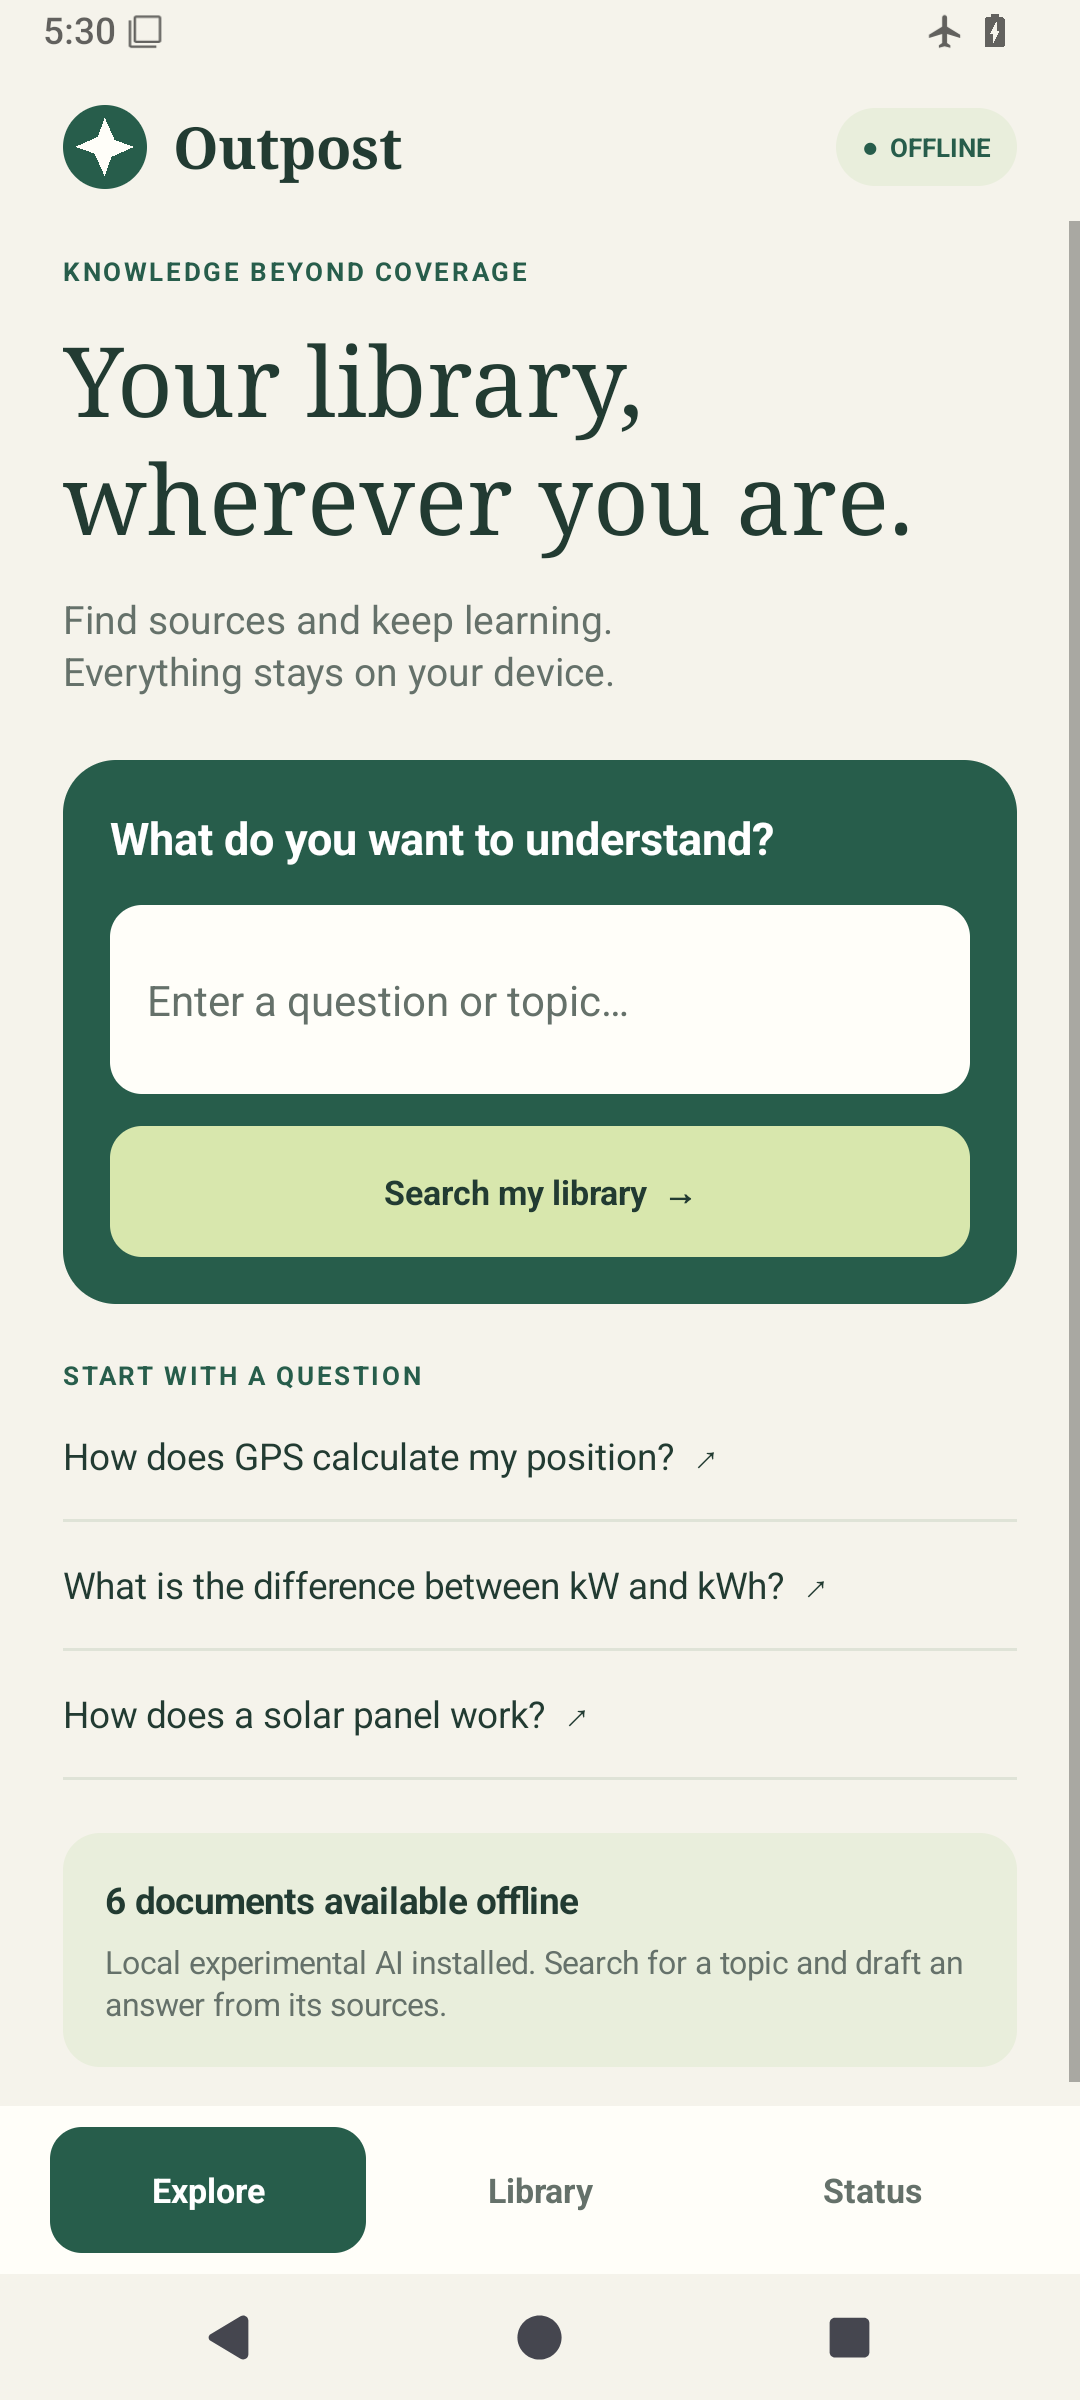
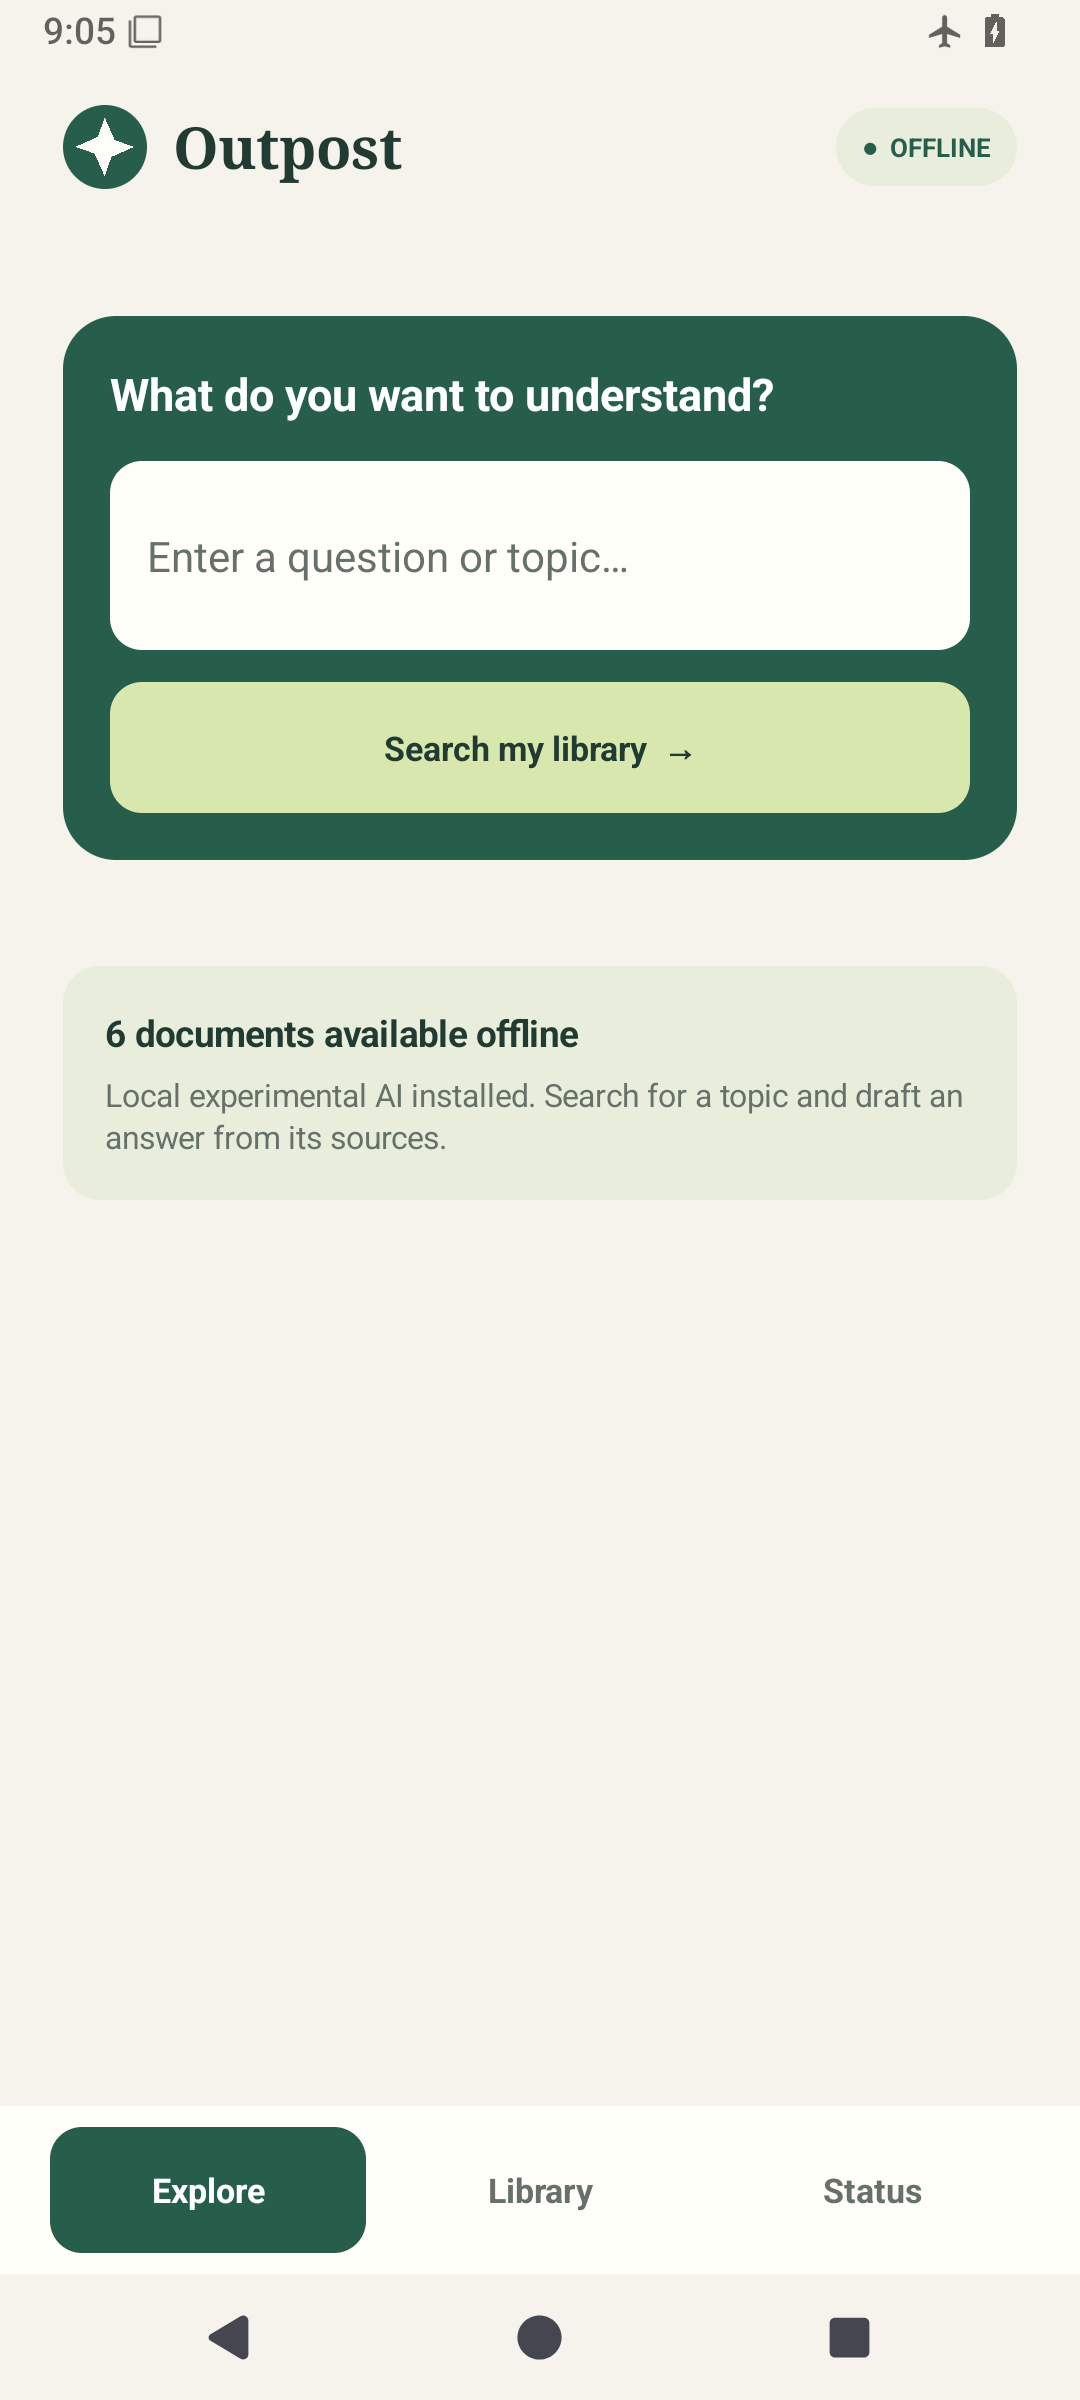
feat(ui): open directly on the question surface and drop the preset questions
The Explore tab opened on a landing block: the slogan, a hero headline, a
sub-headline, an empty results area carrying a "START WITH A QUESTION" label and
three tappable preset questions. The question input was therefore not the first
thing on screen, and a fixed set of example questions suggested the product was
limited to those topics. The app now opens directly on the question surface.

- Remove the slogan label, the hero block and the sub-headline.
- Remove the "START WITH A QUESTION" label and the three preset questions, so
  the input starts empty and nothing suggests a default question.
- Remove the now-dead example() and selectable() helpers and the seven string
  resources that only those views used. The slogan remains the documented
  product tagline in README.md and docs/.
- Refresh evidence/checks.json and the three UI screenshots for the new layout.

Verified on emulator-5582: build successful, lintDebug reports no issues, the
48 functional checks pass, and a cold launch (792 ms) shows an empty input with
the placeholder, no preset questions and the library note as the only content
below it.

diff --git a/app/src/main/java/dev/outpost/app/MainActivity.java b/app/src/main/java/dev/outpost/app/MainActivity.java
@@ -151,9 +151,7 @@ public final class MainActivity extends Activity {
         root.addView(nav);
     }
     private void explore() {
-        label(content, getString(R.string.ui_knowledge_beyond_coverage));
-        TextView hero = text(getString(R.string.ui_your_library_wherever_you_are), 37, INK); hero.setTypeface(Typeface.create("serif", Typeface.NORMAL)); hero.setLineSpacing(0, 1.03f); add(content, hero, 10, 0);
-        add(content, text(getString(R.string.ui_find_sources_and_keep_learning_everything_stays_on_your_device), 15, MUTED), 12, 0);
+        // Opens directly on the question surface: no landing block and no preset questions.
         LinearLayout searchCard = column(); searchCard.setPadding(dp(18), dp(18), dp(18), dp(18)); searchCard.setBackground(shape(GREEN, 20, 0)); add(content, searchCard, 24, 0);
         TextView searchLabel = text(getString(R.string.ui_what_do_you_want_to_understand), 17, Color.WHITE); searchLabel.setTypeface(null, Typeface.BOLD); searchCard.addView(searchLabel);
         query = new EditText(this); query.setId(QUERY_ID); query.setSingleLine(false); query.setMaxLines(3); query.setTextSize(16); query.setTextColor(INK); query.setHintTextColor(MUTED); query.setHint(getString(R.string.ui_enter_a_question_or_topic)); query.setContentDescription(getString(R.string.ui_question_to_search_in_your_library));
@@ -164,18 +162,9 @@ public final class MainActivity extends Activity {
         searchButton.setOnClickListener(v -> search(query.getText().toString()));
         query.setOnEditorActionListener((v, action, event) -> { if (action == EditorInfo.IME_ACTION_SEARCH) { search(query.getText().toString()); return true; } return false; });
         results = column(); add(content, results, 20, 0);
-        label(results, getString(R.string.ui_start_with_a_question));
-        example(getString(R.string.ui_how_does_gps_calculate_my_position));
-        example(getString(R.string.ui_what_is_the_difference_between_kw_and_kwh));
-        example(getString(R.string.ui_how_does_a_solar_panel_work));
         LinearLayout note = column(); note.setPadding(dp(16), dp(16), dp(16), dp(16)); note.setBackground(shape(PALE, 14, 0)); add(content, note, 20, 0);
         TextView title = text(documents.size() + getString(R.string.ui_documents_available_offline), 14, INK); title.setTypeface(null, Typeface.BOLD); note.addView(title);
         add(note, text(models.ready() ? getString(R.string.ui_local_experimental_ai_installed_search_for_a_topic_and_draft_an_a) : getString(R.string.ui_search_without_installing_anything_else_to_draft_with_ai_import_a), 12, MUTED), 6, 0);
-    }
-    private void example(String question) {
-        TextView b = text(question + "  ↗", 14, INK); b.setMinHeight(dp(48)); b.setGravity(Gravity.CENTER_VERTICAL); b.setPadding(0, dp(8), 0, dp(8));
-        b.setBackground(selectable()); b.setOnClickListener(v -> { query.setText(question); search(question); }); results.addView(b);
-        View divider = new View(this); divider.setBackgroundColor(LINE); results.addView(divider, new LinearLayout.LayoutParams(-1, dp(1)));
     }
     void search(String question) {
         if (!ready) return;
@@ -445,7 +434,6 @@ public final class MainActivity extends Activity {
     private TextView text(String value, int size, int color) { TextView t = new TextView(this); t.setText(value); t.setTextSize(size); t.setTextColor(color); t.setLineSpacing(dp(2), 1); return t; }
     private Button button(String value, int bg, int fg) { Button b = new Button(this); b.setText(value); b.setTextSize(13); b.setAllCaps(false); b.setTextColor(fg); b.setTypeface(null, Typeface.BOLD); b.setMinHeight(dp(48)); b.setPadding(dp(10), 0, dp(10), 0); b.setBackground(shape(bg, 12, 0)); b.setStateListAnimator(null); return b; }
     private GradientDrawable shape(int color, int radius, int stroke) { GradientDrawable d = new GradientDrawable(); d.setColor(color); d.setCornerRadius(dp(radius)); if (stroke != 0) d.setStroke(dp(1), stroke); return d; }
-    private android.graphics.drawable.Drawable selectable() { android.util.TypedValue value = new android.util.TypedValue(); getTheme().resolveAttribute(android.R.attr.selectableItemBackground, value, true); return getDrawable(value.resourceId); }
     private void add(LinearLayout parent, View view, int top, int height) { LinearLayout.LayoutParams p = new LinearLayout.LayoutParams(-1, height > 0 ? height : -2); p.topMargin = dp(top); parent.addView(view, p); }
     private int dp(int value) { return Math.round(value * getResources().getDisplayMetrics().density); }
 
